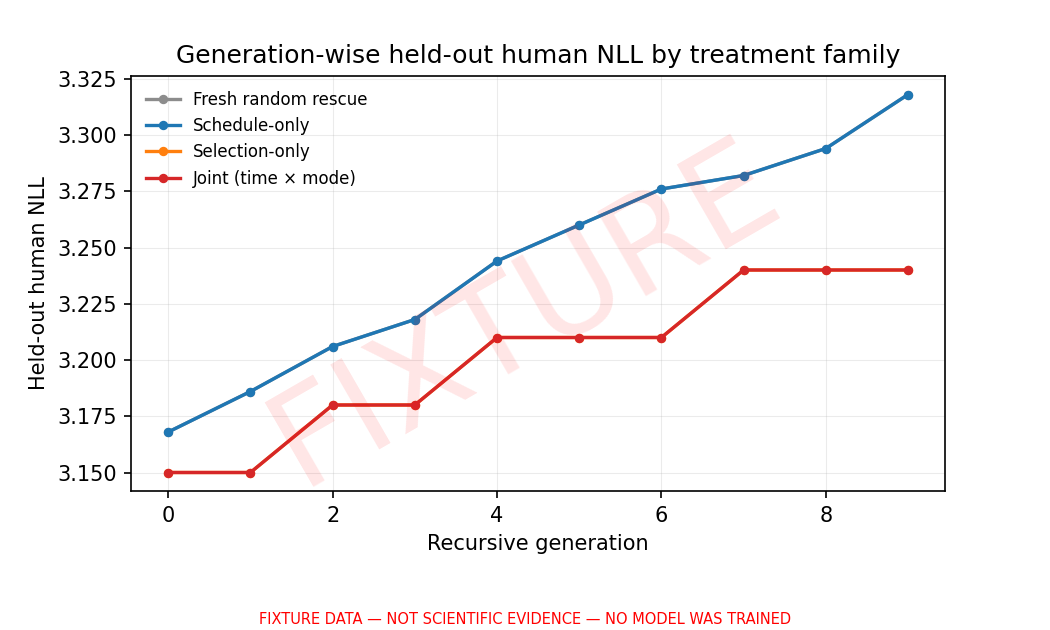
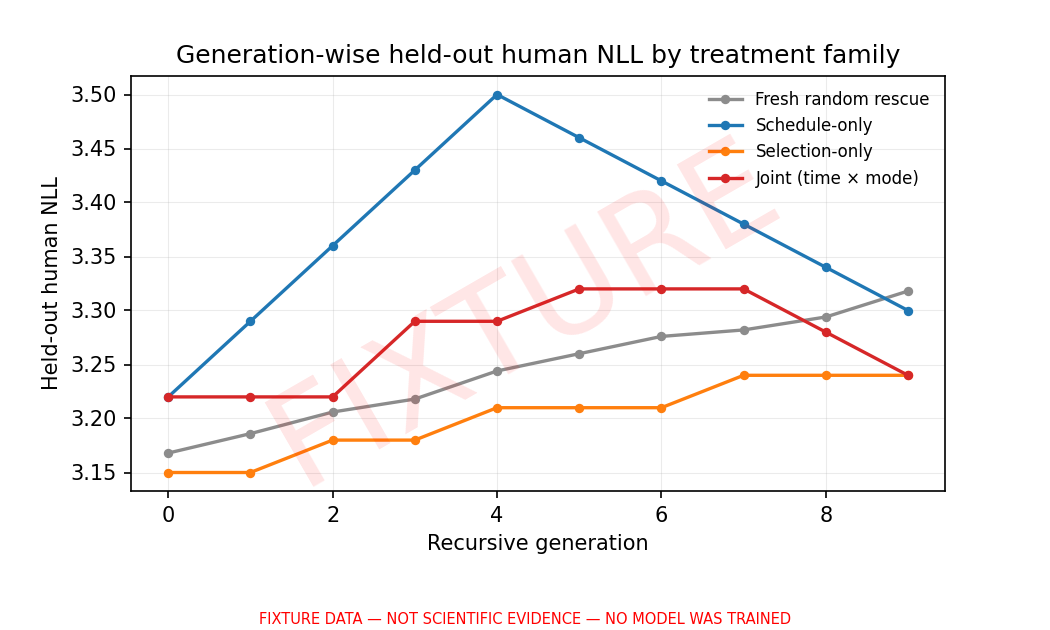
Regenerate fixture artifacts from the restored policy implementation
CI job `fixture-artifacts` failed on a6ec1f4. The committed artifacts under
results/ were generated from the clobbered code, so restoring policies/joint.py
and analysis/simulator.py made all 13 of them stale.

The staleness is the point, not an incidental churn. results/aggregates/fixture_primary.json
carried TWO distinct mean_nll_auc values across four treatment families --
joint == selection_only at 28.815, random == schedule_only at 29.209. That is
FAILURE_LOG F-001's degeneracy, baked into committed evidence, and it is what
F-001 cites when it says results/figures/nll_by_generation.png "shows two visible
curves where four are plotted". Regenerated from the frozen implementation the
same file carries FOUR distinct values (29.490 / 29.209 / 30.440 / 28.815), and
the figure shows four curves. See F-005.

Regenerated with the repository's own generator, `scripts/build_fixture_artifacts.py
--seeds 5` -- the exact command CI runs -- not hand-edited. Every number here is
computed by that script from fixture inputs; none was typed. The artifacts remain
labelled FIXTURE - NOT SCIENTIFIC EVIDENCE.

Verified before committing:
- matplotlib 3.10.8 recorded before and after, so the version CI pins from
  results/figures/figure_provenance.json is unchanged.
- The CI determinism gate passes: regenerating twice in one environment leaves
  ARTIFACT_MANIFEST.json byte-identical.
- audit_repository --strict-structure, ruff, and pytest -q all still exit 0.
[…]

diff --git a/results/tables/fixture_paired_contrasts.tex b/results/tables/fixture_paired_contrasts.tex
@@ -6,8 +6,8 @@
 \hline
 Contrast (joint $-$ baseline) & Mean difference & 95\% interval \\
 \hline
-Fresh random rescue & -0.3940 & [-0.6800, -0.1590] \\
-Schedule-only & -0.3940 & [-0.6800, -0.1590] \\
-Selection-only & 0.0000 & [0.0000, 0.0000] \\
+Fresh random rescue & 0.2810 & [-0.0050, 0.5160] \\
+Schedule-only & -0.9500 & [-0.9500, -0.9500] \\
+Selection-only & 0.6750 & [0.6750, 0.6750] \\
 \hline
 \end{tabular}

diff --git a/results/tables/fixture_primary_results.tex b/results/tables/fixture_primary_results.tex
@@ -7,8 +7,8 @@
 Policy & Chains & Mean NLL regret AUC \\
 \hline
 Fresh random rescue & 5 & 29.2090 \\
-Schedule-only & 5 & 29.2090 \\
+Schedule-only & 5 & 30.4400 \\
 Selection-only & 5 & 28.8150 \\
-Joint (time $\times$ mode) & 5 & 28.8150 \\
+Joint (time $\times$ mode) & 5 & 29.4900 \\
 \hline
 \end{tabular}

diff --git a/results/policy_behavior_report.md b/results/policy_behavior_report.md
@@ -32,20 +32,14 @@ produce a meaningful contrast no matter how many chains are run.
 
 | Policy A | Policy B | Allocations identical | Regret AUC identical |
 |---|---|---|---|
-| `random` | `schedule_only` | YES | YES |
+| `random` | `schedule_only` | no | no |
 | `random` | `selection_only` | no | no |
 | `random` | `joint` | no | no |
 | `schedule_only` | `selection_only` | no | no |
 | `schedule_only` | `joint` | no | no |
-| `selection_only` | `joint` | YES | YES |
+| `selection_only` | `joint` | no | no |
 
-**Degenerate pairs found: 2.**
-- `random` and `schedule_only` allocate identically on every seed.
-- `selection_only` and `joint` allocate identically on every seed.
-
-This is recorded as **F-001** in `FAILURE_LOG.md`. Until it is resolved,
-any contrast between a degenerate pair is structurally zero and the
-four-family decomposition required by C-002 is not yet testable.
+**Degenerate pairs found: 0.**
 
 ## 3. Allocation across generations and modes
 
@@ -54,9 +48,9 @@ Chain seed 1. Each cell is human tokens allocated to that mode.
 | Policy | g0 | g1 | g2 | g3 | g4 | g5 | g6 | g7 | g8 | g9 |
 |---|---|---|---|---|---|---|---|---|---|---|
 | `random` | common:10 | tail:10 | common:10 | common:10 | common:10 | common:10 | common:10 | tail:10 | common:10 | tail:10 |
-| `schedule_only` | common:10 | tail:10 | common:10 | common:10 | common:10 | common:10 | common:10 | tail:10 | common:10 | tail:10 |
+| `schedule_only` | - | - | - | - | - | common:10, tail:10 | common:10, tail:10 | common:10, tail:10 | common:10, tail:10 | common:10, tail:10 |
 | `selection_only` | tail:10 | tail:10 | common:10 | tail:10 | common:10 | tail:10 | tail:10 | common:10 | tail:10 | tail:10 |
-| `joint` | tail:10 | tail:10 | common:10 | tail:10 | common:10 | tail:10 | tail:10 | common:10 | tail:10 | tail:10 |
+| `joint` | - | tail:10 | tail:10 | - | tail:10 | common:10 | tail:10 | tail:10 | common:10, tail:10 | common:10, tail:10 |
 
 ## 4. Monitoring-omission sensitivity
 
@@ -67,9 +61,9 @@ state; only the monitor is blinded.
 | Policy | Full monitor | Tail hidden | Change |
 |---|---:|---:|---:|
 | `random` | 29.2090 | 29.2090 | +0.0000 |
-| `schedule_only` | 29.2090 | 29.2090 | +0.0000 |
+| `schedule_only` | 30.4400 | 30.4400 | +0.0000 |
 | `selection_only` | 28.8150 | 30.3000 | +1.4850 |
-| `joint` | 28.8150 | 30.3000 | +1.4850 |
+| `joint` | 29.4900 | 30.5350 | +1.0450 |
 
 A policy that ignores mode identity shows no change; a policy that targets
 modes is harmed. That separation is the intervention working as designed.
